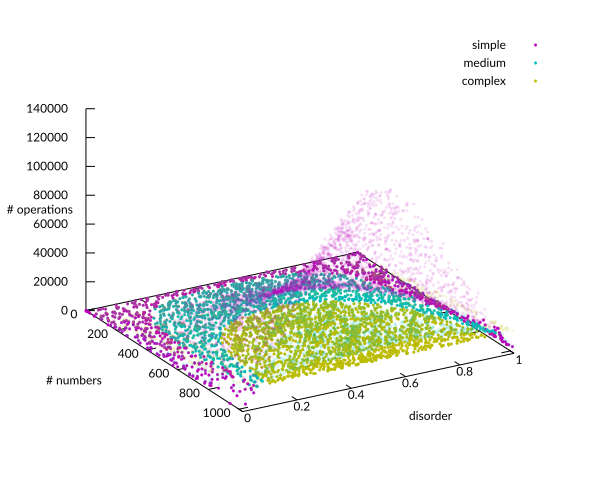
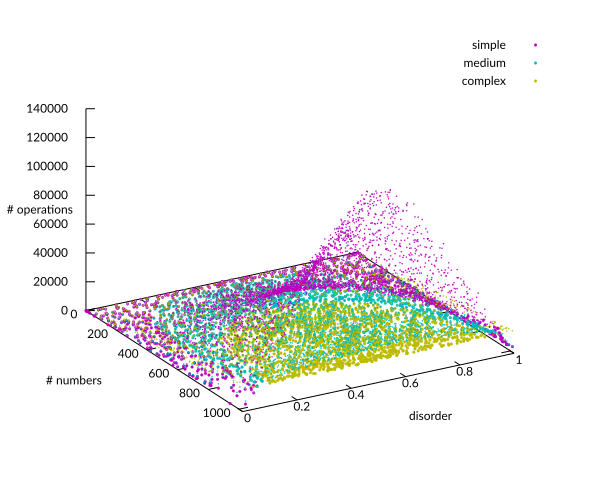
tweaked 3d plots

Changed region(s): [[0.18, 0.4062, 0.84, 0.8125]]

diff --git a/README.md b/README.md
@@ -45,7 +45,7 @@ The first two plots are 3D plots which can look something like:
 ![plot1](img/plot1.png)
 ![plot2](img/plot2.png)
 
-The three strategies are plotted in three colours with transparent dots. The adaptive strategy is plotted with opaque dots. The only difference between the two plots is the scaling of the z axis and the orientation of the xy plane.
+The three strategies are plotted in three colours; the adaptive strategy is plotted with bigger dots. The only difference between the two plots is the scaling of the z axis and the orientation of the xy plane.
 
 The third plot shows the minimum number of operations for each sequence (using the same colour coding as above). The intention of this one is to come op with good threshold values for the adaptive strategy.
 
